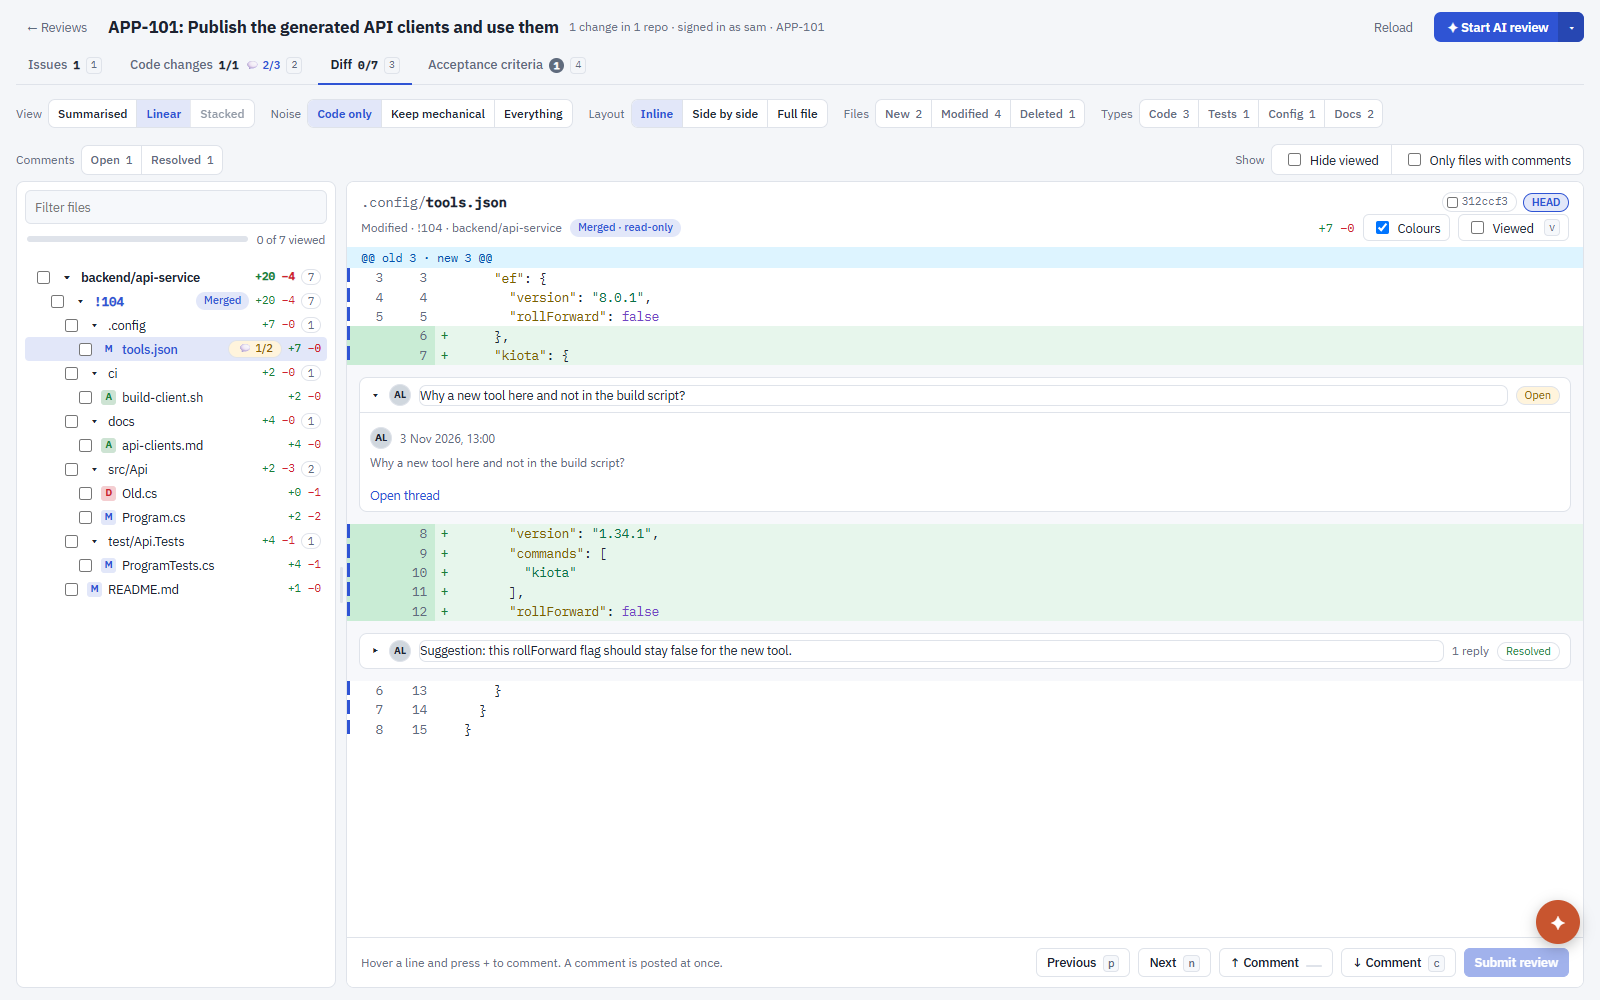
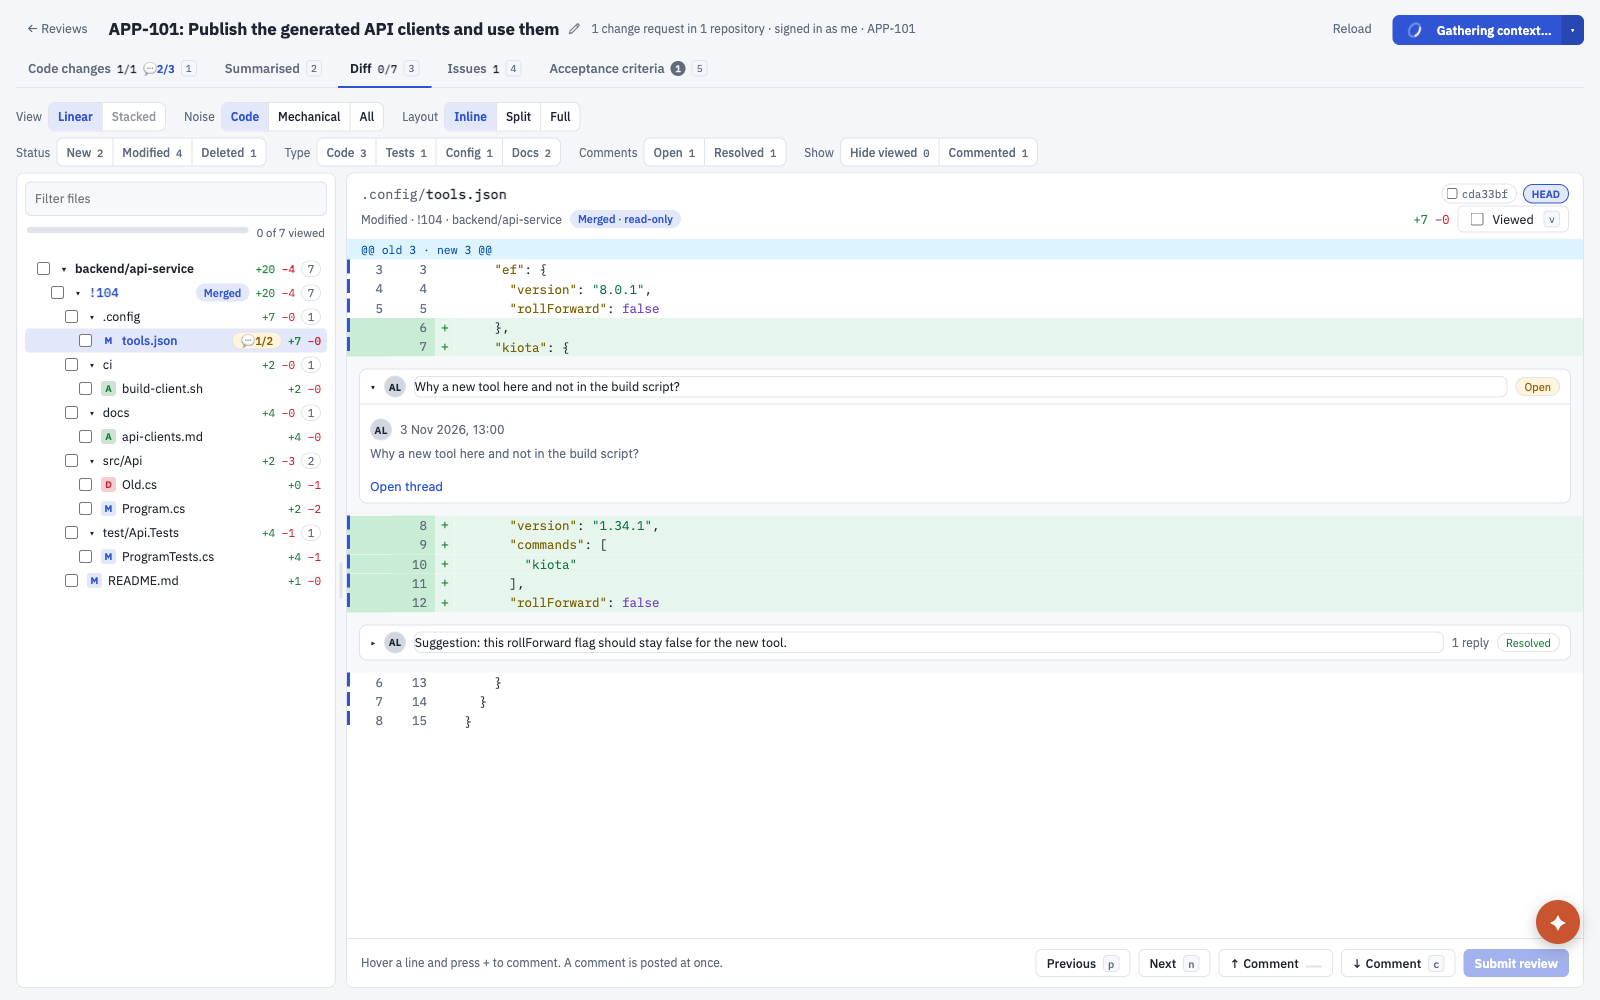
refactor: group the Diff toolbar in two rows with shorter labels (#26)

diff --git a/src/renderer/features/DiffTab.tsx b/src/renderer/features/DiffTab.tsx
@@ -40,9 +40,9 @@ const nameOf = (p: string): string => p.slice(p.lastIndexOf('/') + 1)
 
 /** The three noise buttons. The ids are the internal level names (file 02 section 2). */
 const NOISE: { id: LevelName; label: string; hint: string }[] = [
-  { id: 'strict', label: 'Code only', hint: 'Hides blank lines, whitespace, imports, comments and mechanical modifiers' },
-  { id: 'basic', label: 'Keep mechanical', hint: 'Hides blank lines, whitespace, imports and moved namespaces' },
-  { id: 'raw', label: 'Everything', hint: "Follows git's own diff" }
+  { id: 'strict', label: 'Code', hint: 'Code only: hides blank lines, whitespace, imports, comments and mechanical modifiers' },
+  { id: 'basic', label: 'Mechanical', hint: 'Keep mechanical changes: hides blank lines, whitespace, imports and moved namespaces' },
+  { id: 'raw', label: 'All', hint: "Everything: follows git's own diff" }
 ]
 
 const STATUS_WORD = { A: 'New', M: 'Modified', D: 'Deleted', R: 'Renamed' } as const
@@ -328,6 +328,17 @@ export function DiffTab(props: { mode: 'summarised' | 'diff'; visible?: (mrKey: 
     { open: 0, resolved: 0 }
   )
   const statusCount = (st: 'A' | 'M' | 'D'): number => shown.filter((e) => statusOf(e) === st).length
+  // The counts of the Show buttons come from the shown files too.
+  const filtersOn = statuses.size > 0 || kinds.size > 0 || commentFilter.size > 0 || hideViewed || onlyComments
+  const clearFilters = (): void => {
+    setStatuses(new Set())
+    setKinds(new Set())
+    setCommentFilter(new Set())
+    setHideViewed(false)
+    setOnlyComments(false)
+  }
+  const viewedFiles = shown.filter((e) => viewed.has(e.id)).length
+  const commentedFiles = shown.filter(hasComments).length
   // The counts of the Types filter come from the shown files, as the counts of the Files filter do. Only the options with files show, and an option that is on stays.
   const kindOptions = useMemo(() => visibleKinds(countKinds(shown.map((e) => ({ path: e.file.path, binary: e.file.binary }))), kinds), [shown, kinds])
   const visible = useMemo(() => {
@@ -647,40 +658,40 @@ export function DiffTab(props: { mode: 'summarised' | 'diff'; visible?: (mrKey: 
   return (
     <div className="difftab" data-testid="diff-tab">
       <div className="difftoolbar">
-        {props.mode === 'diff' && (
-          <div className="fgroup" role="group" aria-label="View">
-            <span className="glabel">View</span>
+        <div className="toolrow">
+          {props.mode === 'diff' && (
+            <div className="fgroup" role="group" aria-label="View">
+              <span className="glabel">View</span>
+              <span className="seg">
+                <button className={view === 'mr' ? 'on' : ''} onClick={() => setView('mr')}>
+                  Linear
+                </button>
+                <button className={view === 'combined' ? 'on' : ''} disabled={!hasCombined} title={combinedTip} onClick={() => setView('combined')}>
+                  Stacked
+                  {partsBadge && <span className="parts"> {result.combined.length} parts</span>}
+                </button>
+              </span>
+            </div>
+          )}
+          <div className="fgroup" role="group" aria-label="Noise">
+            <span className="glabel">Noise</span>
             <span className="seg">
-              <button className={view === 'mr' ? 'on' : ''} onClick={() => setView('mr')}>
-                Linear
-              </button>
-              <button className={view === 'combined' ? 'on' : ''} disabled={!hasCombined} title={combinedTip} onClick={() => setView('combined')}>
-                Stacked
-                {partsBadge && <span className="parts"> {result.combined.length} parts</span>}
-              </button>
+              {NOISE.map((n) => (
+                <button key={n.id} className={level === n.id ? 'on' : ''} title={n.hint} onClick={() => setLevel(n.id)}>
+                  {n.label}
+                </button>
+              ))}
             </span>
           </div>
-        )}
-        <div className="fgroup" role="group" aria-label="Noise">
-          <span className="glabel">Noise</span>
-          <span className="seg">
-            {NOISE.map((n) => (
-              <button key={n.id} className={level === n.id ? 'on' : ''} title={n.hint} onClick={() => setLevel(n.id)}>
-                {n.label}
-              </button>
-            ))}
-          </span>
-        </div>
-        {view !== 'summarised' && (
-          <>
+          {view !== 'summarised' && (
             <div className="fgroup" role="group" aria-label="Layout">
               <span className="glabel">Layout</span>
               <span className="seg">
                 {(
                   [
                     ['inline', 'Inline'],
-                    ['side', 'Side by side'],
-                    ['full', 'Full file']
+                    ['side', 'Split'],
+                    ['full', 'Full']
                   ] as const
                 ).map(([id, label]) => (
                   <button key={id} className={layout === id ? 'on' : ''} data-testid={'layout-' + id} onClick={() => setLayout(id)}>
@@ -689,8 +700,12 @@ export function DiffTab(props: { mode: 'summarised' | 'diff'; visible?: (mrKey: 
                 ))}
               </span>
             </div>
-            <div className="fgroup" role="group" aria-label="Files">
-              <span className="glabel">Files</span>
+          )}
+        </div>
+        {view !== 'summarised' && (
+          <div className="toolrow">
+            <div className="fgroup" role="group" aria-label="Status">
+              <span className="glabel">Status</span>
               <span className="seg toggles">
                 {(
                   [
@@ -712,8 +727,8 @@ export function DiffTab(props: { mode: 'summarised' | 'diff'; visible?: (mrKey: 
               </span>
             </div>
             {kindOptions.length > 0 && (
-              <div className="fgroup" role="group" aria-label="Types">
-                <span className="glabel">Types</span>
+              <div className="fgroup" role="group" aria-label="Type">
+                <span className="glabel">Type</span>
                 <span className="seg toggles">
                   {kindOptions.map((k) => (
                     <button
@@ -751,19 +766,35 @@ export function DiffTab(props: { mode: 'summarised' | 'diff'; visible?: (mrKey: 
                 ))}
               </span>
             </div>
-            <div className="fgroup checks" role="group" aria-label="Show">
+            <div className="fgroup" role="group" aria-label="Show">
               <span className="glabel">Show</span>
-              <span className="seg checkseg">
-                <label>
-                  <input type="checkbox" data-testid="hide-viewed" checked={hideViewed} onChange={(e) => setHideViewed(e.target.checked)} /> Hide viewed
-                </label>
-                <label>
-                  <input type="checkbox" data-testid="only-comments" checked={onlyComments} onChange={(e) => setOnlyComments(e.target.checked)} /> Only files
-                  with comments
-                </label>
+              <span className="seg toggles">
+                <button
+                  className={hideViewed ? 'on' : ''}
+                  aria-pressed={hideViewed}
+                  data-testid="hide-viewed"
+                  title="Hide the files that you marked as viewed"
+                  onClick={() => setHideViewed(!hideViewed)}
+                >
+                  Hide viewed <small>{viewedFiles}</small>
+                </button>
+                <button
+                  className={onlyComments ? 'on' : ''}
+                  aria-pressed={onlyComments}
+                  data-testid="only-comments"
+                  title="Show only the files that have comments or drafts"
+                  onClick={() => setOnlyComments(!onlyComments)}
+                >
+                  Commented <small>{commentedFiles}</small>
+                </button>
               </span>
             </div>
-          </>
+            {filtersOn && (
+              <button className="link" data-testid="clear-filters" title="Turn every filter off" onClick={clearFilters}>
+                Clear filters
+              </button>
+            )}
+          </div>
         )}
       </div>
       <div ref={layoutRef} className={dragging ? 'difflayout dragging' : 'difflayout'} style={{ '--tree-width': `${treeWidth}px` } as React.CSSProperties}>

diff --git a/tests/e2e/phase5.spec.ts b/tests/e2e/phase5.spec.ts
@@ -220,6 +220,72 @@ test('resolves a thread, folds it and updates the chip; deletes the viewer’s l
   await app.close()
 })
 
+test('the Show filters are toggle buttons like the other filters, with counts: Hide viewed and Commented', async () => {
+  const s = setup()
+  const { app, page } = await open(s, fixtures(s, { [`GET ${EP(12)}/discussions`]: { json: [thread('d', 72, 'bob', 'a note')] } }))
+  await toDiff(page)
+  const group = page.getByRole('group', { name: 'Show' })
+  const hide = group.getByTestId('hide-viewed')
+  const only = group.getByTestId('only-comments')
+
+  // The two buttons sit in the same kind of group as Files, Types and Comments, and show a count
+  await expect(group.getByRole('button')).toHaveCount(2)
+  await expect(hide).toHaveAttribute('aria-pressed', 'false')
+  await expect(only).toHaveAttribute('aria-pressed', 'false')
+  await expect(group.locator('input')).toHaveCount(0)
+  await expect(hide.locator('small')).toHaveText('0')
+  await expect(only.locator('small')).toHaveText('1')
+
+  // Hide viewed counts the viewed files, and hides them when it is on
+  await page.getByTestId('viewed-now').check()
+  await expect(hide.locator('small')).toHaveText('1')
+  await hide.click()
+  await expect(hide).toHaveAttribute('aria-pressed', 'true')
+  await expect(page.getByTestId('file-src/a.txt')).toHaveCount(0)
+  await hide.click()
+  await expect(page.getByTestId('file-src/a.txt')).toHaveCount(1)
+
+  // Commented keeps the file that has a thread
+  await only.click()
+  await expect(only).toHaveAttribute('aria-pressed', 'true')
+  await expect(page.getByTestId('file-src/a.txt')).toHaveCount(1)
+  await app.close()
+})
+
+test('the toolbar has two rows, the view settings and the filters, and Clear filters turns every filter off', async () => {
+  const s = setup()
+  const { app, page } = await open(s, fixtures(s, { [`GET ${EP(12)}/discussions`]: { json: [thread('d', 72, 'bob', 'a note')] } }))
+  await toDiff(page)
+  const rows = page.locator('.difftoolbar .toolrow')
+  const groups = (row: number): Promise<string[]> =>
+    rows
+      .nth(row)
+      .locator('.fgroup')
+      .evaluateAll((els) => els.map((el) => el.getAttribute('aria-label') ?? ''))
+
+  // The first row says how the diff looks. The second row says which files show.
+  await expect(rows).toHaveCount(2)
+  expect(await groups(0)).toEqual(['View', 'Noise', 'Layout'])
+  expect((await groups(1)).filter((g) => g !== 'Type')).toEqual(['Status', 'Comments', 'Show'])
+
+  // The noise and layout buttons have short names
+  await expect(page.getByRole('group', { name: 'Noise' }).getByRole('button')).toHaveText(['Code', 'Mechanical', 'All'])
+  await expect(page.getByRole('group', { name: 'Layout' }).getByRole('button')).toHaveText(['Inline', 'Split', 'Full'])
+
+  // With no filter on there is no Clear button. A filter that hides the file shows it, and Clear brings the file back.
+  await expect(page.getByTestId('clear-filters')).toHaveCount(0)
+  await page.getByTestId('status-D').click()
+  await expect(page.getByTestId('file-src/a.txt')).toHaveCount(0)
+  await page.getByTestId('only-comments').click()
+  await expect(page.getByTestId('clear-filters')).toBeVisible()
+  await page.getByTestId('clear-filters').click()
+  await expect(page.getByTestId('file-src/a.txt')).toHaveCount(1)
+  await expect(page.getByTestId('clear-filters')).toHaveCount(0)
+  await expect(page.getByTestId('status-D')).toHaveAttribute('aria-pressed', 'false')
+  await expect(page.getByTestId('only-comments')).toHaveAttribute('aria-pressed', 'false')
+  await app.close()
+})
+
 test('the Open filter of the comments shows only the open threads, and another person’s note has no Delete', async () => {
   const s = setup()
   const resolved = thread('c', 71, 'bob', 'old', { resolved: true })

diff --git a/src/renderer/design.css b/src/renderer/design.css
@@ -277,10 +277,17 @@ kbd {
 }
 .difftoolbar {
   display: flex;
+  flex-direction: column;
+  align-items: flex-start;
+  gap: 6px;
+  padding: 2px 0 6px;
+}
+/* One row for how the diff looks (View, Noise, Layout), one for which files show (the filters). */
+.toolrow {
+  display: flex;
   flex-wrap: wrap;
   align-items: center;
-  gap: 8px 18px;
-  padding: 2px 0 6px;
+  gap: 6px 18px;
 }
 .fgroup {
   display: inline-flex;
@@ -329,25 +336,6 @@ kbd {
 .seg small {
   font: 500 10.5px var(--mono);
   margin-left: 3px;
-}
-.difftoolbar .checks {
-  margin-left: auto;
-}
-.checkseg {
-  align-items: center;
-  gap: 0;
-  font-size: 12.5px;
-  color: var(--fg);
-}
-.checkseg label {
-  display: inline-flex;
-  align-items: center;
-  gap: 6px;
-  padding: 5px 12px;
-  white-space: nowrap;
-}
-.checkseg label + label {
-  border-left: 1px solid var(--line);
 }
 
 .difflayout {

diff --git a/tests/e2e/phase4.spec.ts b/tests/e2e/phase4.spec.ts
@@ -154,7 +154,7 @@ test('shows files with git line numbers, binary and spaced paths, and the noise 
   await expect(page.getByTestId('file-src/a.txt')).toBeVisible()
   await page.getByTestId('file-img.bin').click()
   // "Everything" shows the whitespace-only file
-  await page.getByRole('button', { name: 'Everything' }).click()
+  await page.getByRole('button', { name: 'All', exact: true }).click()
   await expect(page.getByTestId('file-ws.txt')).toBeVisible()
   await page.getByTestId('file-ws.txt').click()
   await expect(page.locator('table.diff tr.del td.code')).toHaveText('y')

diff --git a/src/renderer/styles.css b/src/renderer/styles.css
@@ -454,9 +454,9 @@ textarea {
 }
 .difftab .difftoolbar {
   display: flex;
-  gap: 16px;
-  align-items: center;
-  flex-wrap: wrap;
+  flex-direction: column;
+  gap: 6px;
+  align-items: flex-start;
   padding: 6px 0;
 }
 .difftab .difftoolbar .group {

diff --git a/docs/FEATURES.md b/docs/FEATURES.md
@@ -38,7 +38,7 @@ The home screen has three tabs: Reviews, Owned by me and I am the reviewer. Revi
 The app saves how you left each screen, so it opens the same way next time. Every change of a toggle, a filter, a sort, a group choice or a tab is saved at once, in the file `ui-prefs.json` in the data folder of the app. Each screen keeps its own settings, so a choice in one place never changes another.
 
 - **The home screen** keeps the open tab. The Reviews tab keeps its sort, its search text and its four Summarised pills. Each of the two list tabs keeps its state pills, approval pills, group choice, collapsed groups and sort.
-- **Each review** keeps its own settings, and a review never changes the settings of another review: the open tab, and in the Code changes tab the sort, the state and approval filters, the group choice and the collapsed groups. The Issues tab keeps its sort. The Diff tab keeps its view (Linear or Stacked), the file filter text, the Files, Types and Comments buttons and the two Show checkboxes. Deleting a review forgets its settings.
+- **Each review** keeps its own settings, and a review never changes the settings of another review: the open tab, and in the Code changes tab the sort, the state and approval filters, the group choice and the collapsed groups. The Issues tab keeps its sort. The Diff tab keeps its view (Linear or Stacked), the file filter text, the Status, Type, Comments and Show buttons. Deleting a review forgets its settings.
 - **Every screen** shares the Noise setting and the Layout of the Diff tab.
 - The width of the file tree, the Viewed marks, the accepted sections and the folded sections stay where they were. They are kept in the browser storage of the window, as before.
 - A saved setting that the app no longer knows, for example a column that was removed, is ignored and the default is used. Delete `ui-prefs.json` to go back to the defaults.
@@ -81,15 +81,17 @@ The table has one row for each change. The columns are Repository, change reques
 
 ### 6.1 The toolbar
 
+The toolbar has two rows. The first row says how the diff looks: View, Noise and Layout. The second row says which files show: the filters Status, Type, Comments and Show, and a Clear filters link.
+
 - **View**: Linear or Stacked. Linear shows the files of each change by itself. Stacked shows the files of all the changes of one repository as one diff, when they merge cleanly. The Summarised page has its own tab, described in section 7. It has no file tree, and it shows only the Noise group.
-- **Noise**: Code only, Keep mechanical, or Everything. Code only hides blank lines, white space, imports, comments and mechanical modifiers. A file with no change at that level is hidden, and the tree says how many.
-- **Layout**: Inline, Side by side, or Full file.
-- **Files**: New, Modified and Deleted, each with its count.
-- **Types**: Code, Tests, Config, Docs, Images and Binary, each with its count. A file has one type. The app checks in this order and the first match wins: Images (by extension: png, jpg, jpeg, gif, webp, bmp, ico, svg, avif, tiff, heic and similar), then Binary (a file that git marks as binary, or a known binary extension such as zip, dll, exe, pdf, fonts, jar and wasm), then Docs, Tests, Config, and Code for the rest. An image is never Binary, and a picture in a `tests` folder is an Image. An SVG is an Image, and the diff still shows its text lines. The diff of another image, or of any binary file, shows the note "Binary file, no text diff." and no preview.
-- The Types group shows only the options that have files. An option with no file is not shown, and the group is not shown when the review has no file at all. The counts come from the files that the View and Noise settings show, so the other filters do not change them. An option that is on stays visible when its count falls to 0, so you can turn it off.
+- **Noise**: Code, Mechanical or All. Code shows code only: it hides blank lines, white space, imports, comments and mechanical modifiers. Mechanical keeps the mechanical changes and hides blank lines, white space, imports and moved namespaces. All follows the diff of git. A tooltip on each button says so. A file with no change at that level is hidden, and the tree says how many.
+- **Layout**: Inline, Split (side by side) or Full (the whole file).
+- **Status**: New, Modified and Deleted, each with its count.
+- **Type**: Code, Tests, Config, Docs, Images and Binary, each with its count. A file has one type. The app checks in this order and the first match wins: Images (by extension: png, jpg, jpeg, gif, webp, bmp, ico, svg, avif, tiff, heic and similar), then Binary (a file that git marks as binary, or a known binary extension such as zip, dll, exe, pdf, fonts, jar and wasm), then Docs, Tests, Config, and Code for the rest. An image is never Binary, and a picture in a `tests` folder is an Image. An SVG is an Image, and the diff still shows its text lines. The diff of another image, or of any binary file, shows the note "Binary file, no text diff." and no preview.
+- The Type group shows only the options that have files. An option with no file is not shown, and the group is not shown when the review has no file at all. The counts come from the files that the View and Noise settings show, so the other filters do not change them. An option that is on stays visible when its count falls to 0, so you can turn it off.
 - **Comments**: Open and Resolved, each with the number of threads. With Open on, the tree shows only the files with open threads, and the diff shows only the open threads, so resolved threads are hidden. Resolved works the same way.
-- Filters with buttons (Files, Types and Comments) narrow the list only when a button is on. With no button on, every file shows.
-- **Show**: a group at the right end of the toolbar with two checkboxes, Hide viewed and Only files with comments.
+- **Show**: Hide viewed and Commented. Hide viewed hides the files that you marked as viewed. Commented keeps the files that have comments or drafts. Each shows how many of the shown files it covers.
+- The filters are buttons that work the same way: a click turns one on, a second click turns it off, and the filters narrow the list only when a button is on. With no button on, every file shows. **Clear filters** shows only while a filter is on, and turns every filter off at once.
 
 ### 6.2 The file tree
 
@@ -105,7 +107,7 @@ The tree groups the files by repository, change and folder. A box on each row ma
 The header shows the path, the state of the change, the commits of the file and the Viewed button. The body shows the diff in the layout that you chose. A line has a gutter with a `+` button to comment, and a button to ask the AI about the line.
 
 - **Marks inside a line.** When a line changed by a few characters, the changed characters are marked more strongly than the rest of the line. The app compares the two lines word by word, and compares the characters only inside a changed word. A line that changed almost completely gets no marks. Inline and side by side show the marks.
-- **Syntax colours.** The code has colours by its language in the Inline, Side by side and Full file layouts, and in the code blocks of the chat. The app picks the language from the name of the file, for example `.ts`, `.tsx`, `.cs`, `.py`, `.csproj`, `.tf`, `Dockerfile` and `Makefile`. A file in an unknown language stays plain.
+- **Syntax colours.** The code has colours by its language in the Inline, Split and Full layouts, and in the code blocks of the chat. The app picks the language from the name of the file, for example `.ts`, `.tsx`, `.cs`, `.py`, `.csproj`, `.tf`, `Dockerfile` and `Makefile`. A file in an unknown language stays plain.
   - A removed line takes its colours from the whole old file. An added or unchanged line takes them from the whole new file. A comment or a string over several lines then has the right colour on each line. A file with no whole text, such as a generated file, gets its colours one hunk at a time, so a comment that starts above a hunk can have a wrong colour. The text is always right.
   - The text shows at once and the colours follow a moment later, because a worker colours the file in the background. The marks inside a changed line stay visible over the colours.
   - A file with more than 8,000 lines, more than 600,000 characters or a line longer than 1,500 characters stays plain, and the file header says why.
